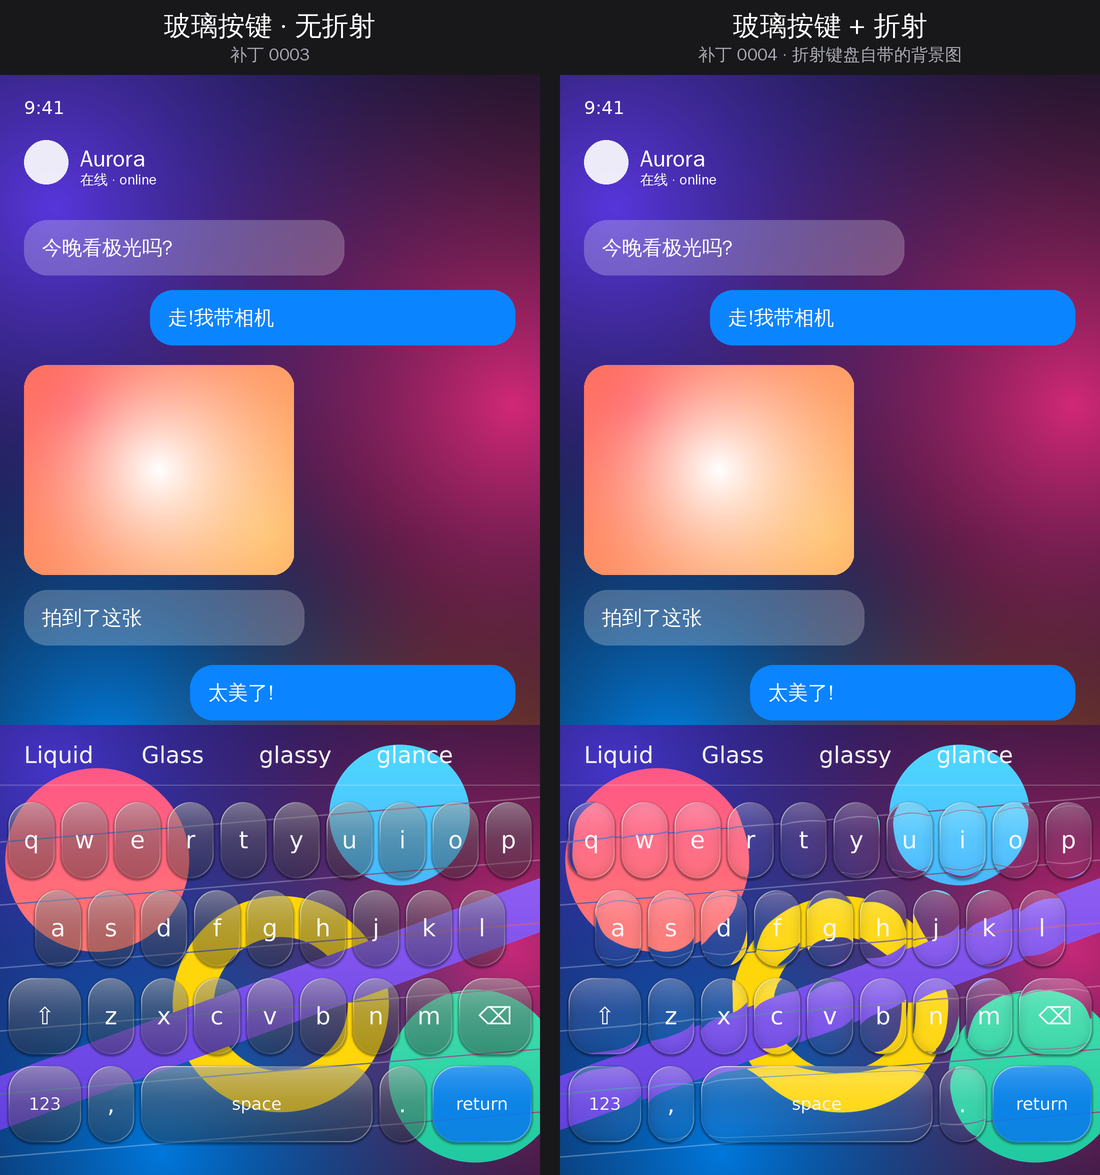
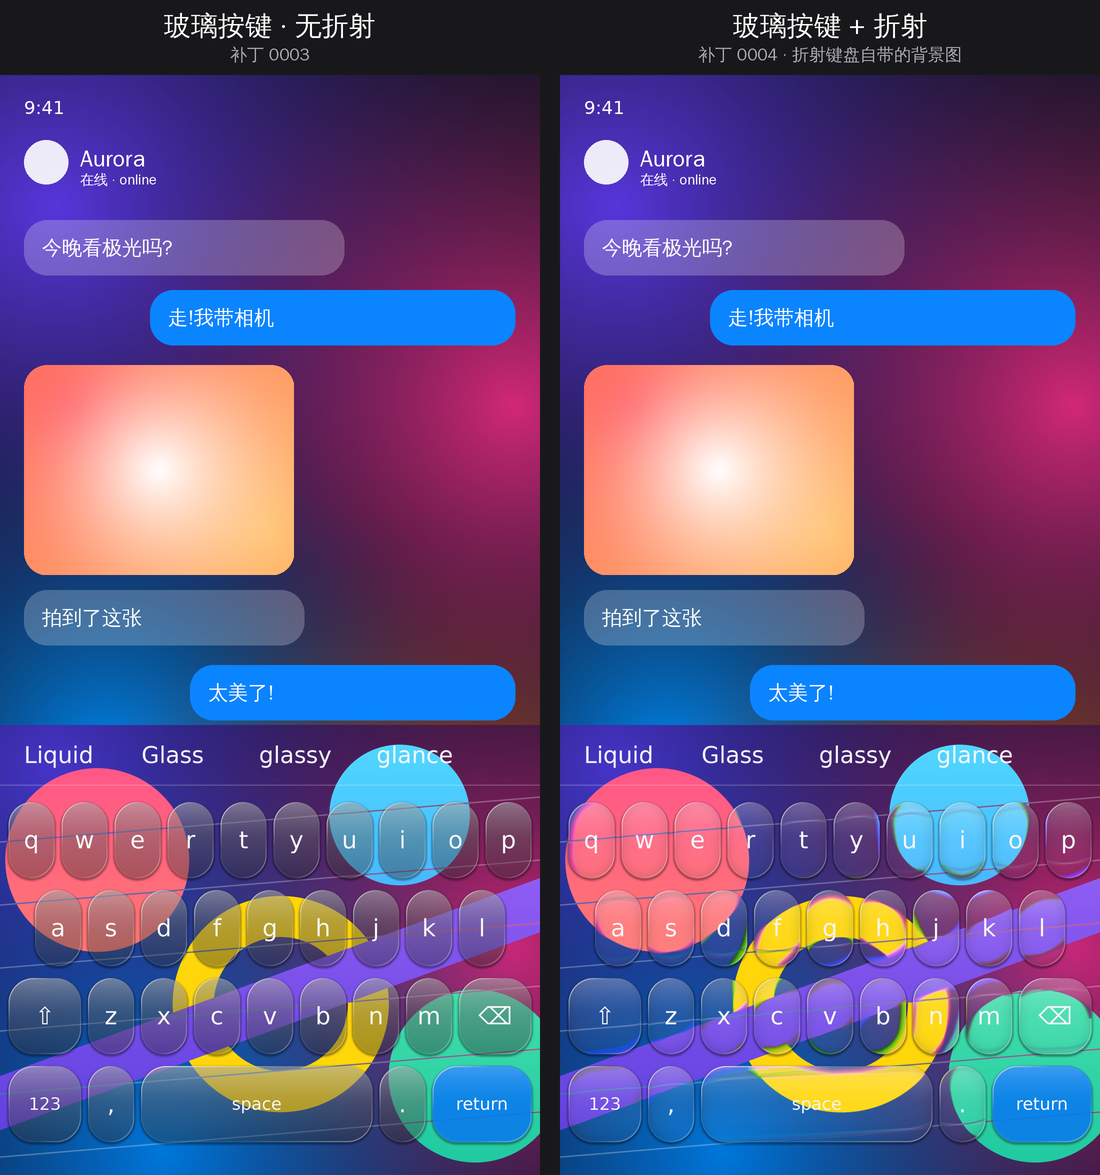
Strengthen glass refraction with spectral chromatic aberration
Claude-Session: https://claude.ai/code/session_01QEKhXoZBvs89vip1Jy7y4n

diff --git a/tools/render_blur_demo.py b/tools/render_blur_demo.py
@@ -141,7 +141,8 @@ def paint(size, rgb, alpha_arr, mask):
 LOCAL_SIZE = (0, 0)  # size of the local key canvas, set by glass_key
 
 # Keep in sync with RefractionPainter (GlassRefraction.kt)
-BEVEL_DP, STRENGTH_DP, ABERRATION, ZOOM, RIM_SHADE = 14.0, 11.0, 0.06, 0.97, 0.10
+BEVEL_DP, STRENGTH_DP, ABERRATION, ZOOM, RIM_SHADE = 14.0, 11.0, 0.95, 0.97, 0.10
+TAPS = 7  # spectral samples per pixel
 REFRACTED_TINT_SCALE = 0.5
 
 
@@ -181,10 +182,31 @@ def refract(backdrop, box, r, origin):
     nx = nx * np.where(dx < 0, -1.0, 1.0)
     ny = ny * np.where(dy < 0, -1.0, 1.0)
     bx, by = cx + dx * ZOOM, cy + dy * ZOOM
-    sx, sy = nx * STRENGTH_DP * DENSITY * k, ny * STRENGTH_DP * DENSITY * k
+    strength = STRENGTH_DP * DENSITY
+    kd = edge ** 2  # dispersion reaches further in than the bend itself
     out = np.empty((lh, lw, 3), np.float32)
-    for ch, scale in enumerate((1 + ABERRATION, 1.0, 1 - ABERRATION)):
-        out[..., ch] = bilinear(backdrop[..., ch:ch + 1], bx + sx * scale + ox, by + sy * scale + oy)[..., 0]
+    # outside the bevel there is no bend and no dispersion: a single sample is enough
+    out[:] = bilinear(backdrop, bx + ox, by + oy)
+    inside = edge > 0.01
+    ix = np.nonzero(inside)
+    bxi, byi = bx[ix], by[ix]
+    nxi, nyi = nx[ix], ny[ix]
+    shift = strength * k[ix]
+    spread = strength * ABERRATION * kd[ix]
+    acc = np.zeros((len(bxi), 3), np.float32)
+    wsum = np.zeros(3, np.float32)
+    for i in range(TAPS):
+        t = (i - (TAPS - 1) / 2) / ((TAPS - 1) / 2)  # -1 .. 1
+        # blue bends the most, red the least, like in real glass; weights are triangles over t
+        w = np.array([np.clip(1 - (t + 1) / 1.1, 0, 1),   # red, peaks at t = -1
+                      np.clip(1 - abs(t) / 0.9, 0, 1),     # green, peaks at t = 0
+                      np.clip(1 - (1 - t) / 1.1, 0, 1)],   # blue, peaks at t = 1
+                     np.float32)
+        d = shift + spread * t
+        c = bilinear(backdrop, bxi + nxi * d + ox, byi + nyi * d + oy)
+        acc += c * w
+        wsum += w
+    out[ix] = acc / wsum
     return out * (1 - RIM_SHADE * k)[..., None]
 
 

diff --git a/README.md b/README.md
@@ -97,13 +97,17 @@ cd fcitx5-android && ./gradlew assembleRelease
 
 ![refraction](preview/demo_refraction_LiquidGlassLight_closeup.png)
 
+局部放大(曲面色差):
+
+![dispersion](preview/demo_dispersion_zoom.png)
+
 > 上:0003 玻璃按键;下:再开启 0004 折射。模拟渲染,用 numpy 逐像素复刻了着色器公式。
 
 主题设置里新增「玻璃折射」开关(Android 13+,需要先开「玻璃按键样式」)。每个按键用一个 AGSL 着色器对**键盘自带的背景图**做折射:
 
 - 按键中间基本是平的,略微放大(×1/0.97);
 - 距边缘 14 dp 的范围内,取样点被一路向外推,越靠边推得越多(三次方衰减),背景就像在按键边缘「翻过去」一样弯折;
-- 红、绿、蓝三个通道推的量差 6%(色散),边缘出现彩色镶边;
+- **曲面色差**:沿折射方向对每个像素取 7 个样,按波长加权混合,蓝光折射最多、红光最少(和真实玻璃一致)。色散的范围比弯折本身更靠里,所以沿着按键弯曲的圆角轮廓会出现连续的彩虹镶边(品红 → 青 → 黄绿),不是三个错位的重影;
 - 最边缘略微变暗,看起来有厚度。
 
 要点:
